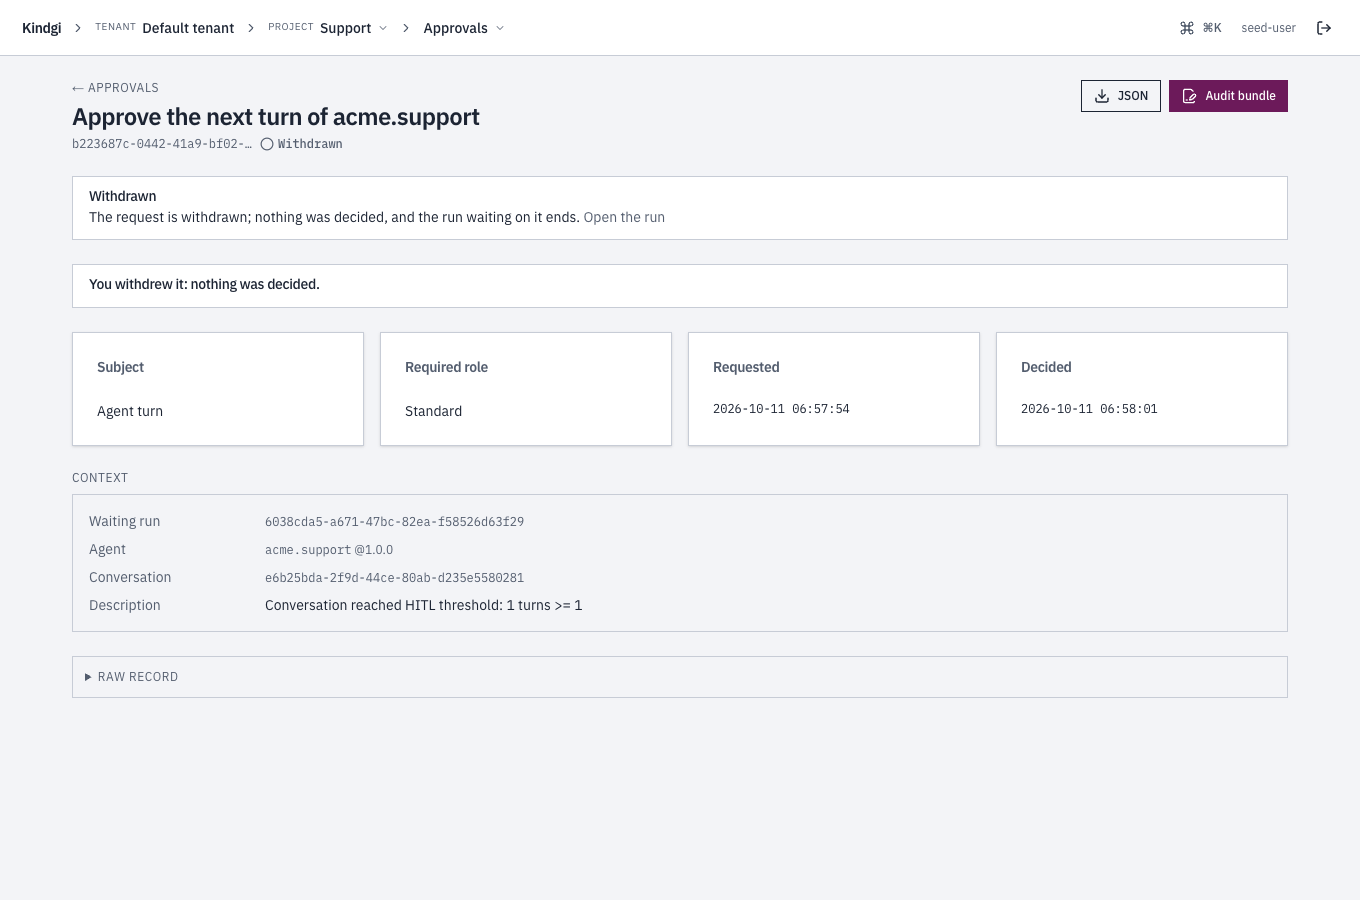
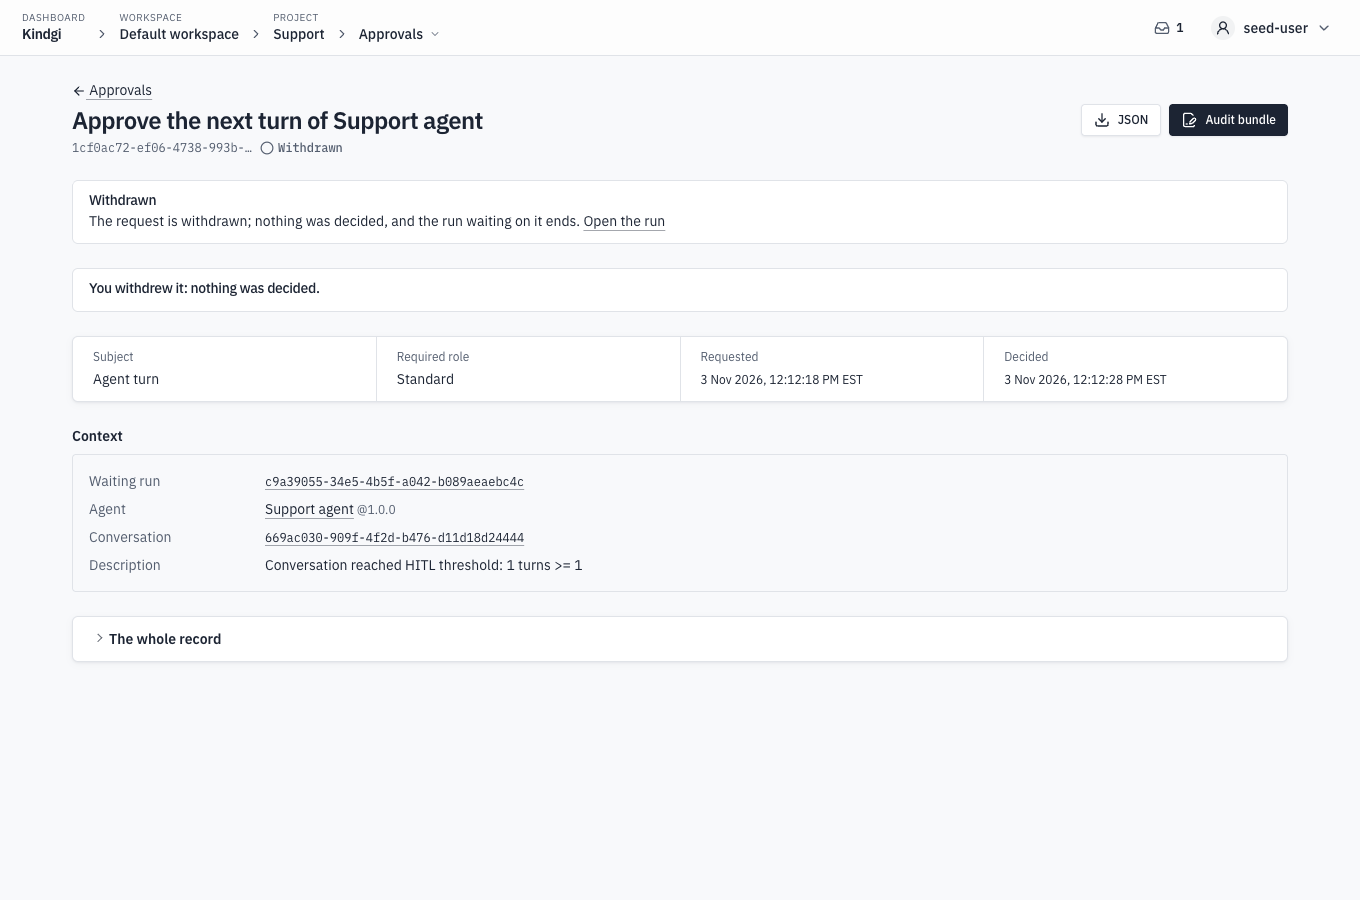
docs: the console shots say workspace
The console says "workspace" where it said "tenant". Retake the shots
of access control, people and keys, sign-in, SSO, guardrails,
corrections and approvals, and say in each alt what the new shot
shows. people/tenant-home.png is now people/workspace-home.png.

Run with authorization stops quoting the count lines the console no
longer shows, and Organize work by org and project describes renaming
the project.

diff --git a/site/src/content/docs/deploy/people-and-keys.md b/site/src/content/docs/deploy/people-and-keys.md
@@ -730,11 +730,11 @@ It's refused for yourself and for the seed user, with
   `signing-keys:write`. A key that trusts signing keys is an **Admin** key,
   under **How far it goes**, with **Trust signing keys** ticked.
 
-  ![The API keys page: one key, labelled laptop, acting as Sam Rivera with the member role, never used, expiring a month after it was made, with a Revoke button.](../../../assets/people/api-keys.png)
+  ![The API keys page: "Keys for apps and pipelines belong to a service account; a person's key goes to them. To add someone, see People."; then one key, labelled laptop, acting as Sam Rivera with the member role on every project it can reach, never used, expiring a month after it was made, with a Revoke icon.](../../../assets/people/api-keys.png)
 - **Service accounts,** for tenant admins: create one with its grants,
   change them, make it a key, or unregister it.
 
-  ![The Service accounts page: acme-ci, "Deploys from CI", admin on the default project, with no active keys yet.](../../../assets/people/service-accounts.png)
+  ![The Service accounts page: acme-ci, "Deploys from CI", admin on First Project, with no active keys yet.](../../../assets/people/service-accounts.png)
 
 A project you have no role on shows **No access**, with the projects you can
 open.
@@ -752,16 +752,16 @@ order the list, and the page's address keeps them.
 Someone [invited](#their-invitation) who hasn't signed in yet is marked
 **(invited)**, and **(invitation expired)** once its 7 days pass:
 
-![The People page with five people: Lee Park (invitation expired), added 9 days ago; the seed user (you), admin reviewer; and Ann Lee, Bo Chen and Kim Ito, each (invited), with no role yet, added just now.](../../../assets/people/people-invites.png)
+![The People page with five people: Lee Park (invitation expired), added 9 days ago; the seed user (you), tenant admin and admin reviewer; and Ann Lee, Bo Chen and Kim Ito, each (invited), reading the workspace's settings, added just now.](../../../assets/people/people-invites.png)
 
-![The People page: "8 people in this tenant", a People who were removed checkbox, Columns and Add a person; each person with their email, their access in words (the seed user: tenant admin, owner on Support and Billing, admin of team Support crew, admin reviewer; Ada Lovelace: reads the tenant's settings, viewer on Support, member of team Support crew, standard reviewer; Sam Rivera: reads the tenant's settings), their active keys, when they were last active and when they were added.](../../../assets/people/people.png)
+![The People page: a People who were removed checkbox, Search, Columns and Add a person; each person with their email, their access in words (the seed user: tenant admin, owner on Support, owner on Billing, admin of team Support crew, admin reviewer; Ada Lovelace: reads the workspace's settings, viewer on Support, member of team Support crew, standard reviewer; Sam Rivera: reads the workspace's settings), their active keys, when they were last active and when they were added.](../../../assets/people/people.png)
 
 **Add a person** adds someone with their access in one step: "Give them
 their access now, in the same step." It takes a name, an optional email
 ("One person per email in this workspace."), project roles, teams, a reviewer
 tier, and tenant admin.
 
-![The Add a person dialog: a name and an email, a viewer role on Billing, the team Support crew as a member, no reviewer role, and the Tenant admin checkbox, with an Add button.](../../../assets/people/add-person.png)
+![The Add a person dialog: a name and an email ("One person per email in this workspace."), a viewer role on Billing, the team Support crew as a member, no reviewer role, and the checkbox "Tenant admin: they administer the whole workspace", with an Add button.](../../../assets/people/add-person.png)
 
 Each part is a step of its own. When they all work, the person's page
 opens. When one doesn't, the dialog says how each went:
@@ -809,9 +809,9 @@ from the workspace** reads **Revoke the invitation**: "They haven't signed in: r
 removes them from the workspace, so the invitation no longer lets them in.
 Adding their email again invites them anew."
 
-![Ann Lee's page before they signed in: no keys and nothing they may do yet; Invitation: "They haven't signed in yet. Their invitation is open until 24 Oct 2026, 11:06 AM EDT; emailed 17 Oct 2026, 11:06 AM EDT.", with Send it again; then Revoke the invitation, with its button.](../../../assets/people/person-invitation.png)
+![Ann Lee's page before they signed in: no keys; What they may do: "They read the workspace's settings, nothing more"; no second factor; Invitation: "They haven't signed in yet. Their invitation is open until 10 Nov 2026, 12:01 PM EST; emailed 3 Nov 2026, 12:01 PM EST.", with Send it again; then Revoke the invitation, with its button.](../../../assets/people/person-invitation.png)
 
-![Ada Lovelace's page as a tenant admin: "1 active key acts as Ada Lovelace" with Make a key for Ada Lovelace; What they may do: Support (viewer) and Support crew (member), each with Take away; Reviewer: Standard, with Take off the roster; Tenant admin: No, with Make tenant admin; Give access (a project, a role); then Signed in, Their keys (ada-laptop, expiring in 3 days, with Revoke), Sign-ins, and Remove from the tenant.](../../../assets/people/person.png)
+![Ada Lovelace's page as a tenant admin: "1 active key acts as Ada Lovelace" with Make a key for Ada Lovelace; What they may do: Support (viewer) and Support crew (member), each with Take away; Reviewer: Standard, with Take off the roster; Tenant admin: No, with Make tenant admin; Give access (a project, a role); then Signed in, Their keys (ada-laptop, expiring in 3 days, with a Revoke icon), Sign-ins, and Remove from the workspace.](../../../assets/people/person.png)
 
 ### What needs you
 
@@ -828,7 +828,7 @@ A tenant admin's home in the workspace starts with what needs a look, such as
   recorded as denied, with **All refused requests**. "Someone refused may be
   missing access they need."
 
-![The tenant's home as a tenant admin. What needs you: "8 people in 3 projects and 1 team. 3 people have no project of their own; 1 key expires this week."; No project of their own: Ben Okafor, Sam Rivera and Eddie Park; Keys: "ada-laptop expires in 3 d"; Recently refused: a person refused admin on the tenant, just now. Below: the projects, and the tenant's sections.](../../../assets/people/tenant-home.png)
+![The workspace's home as a tenant admin. What needs you: "8 people in 3 projects and 1 team. 3 people have no project of their own; 1 key expires this week."; No project of their own: Ben Okafor, Sam Rivera and Eddie Park; Keys: "ada-laptop expires in 3d"; Recently refused: "Ada Lovelace: admin on the workspace", just now. Below: the projects, and Workspace administration, the sections that cover every project.](../../../assets/people/workspace-home.png)
 
 It counts everyone, and never says all is clear before it has read
 everything. While a read is still coming in, it says so, such as "Still

diff --git a/site/src/content/docs/deploy/authorization.md b/site/src/content/docs/deploy/authorization.md
@@ -288,7 +288,7 @@ checks every call.
   - the Inbox and Approvals, to reviewers;
   - Teams, to tenant admins and anyone in a team.
 
-![A project's Agents page as Gus Moreno, a viewer of Support: under the header, "You can view this project; changes need an editor."; the agents list (Support agent, acme.support, version 1.0.0) with no buttons.](../../../assets/access/viewer-project.png)
+![A project's Agents page as Gus Moreno, a viewer of Support: under the header, "You can view this project; changes need an editor."; the agents list (Support agent, version 1.0.0) with no buttons.](../../../assets/access/viewer-project.png)
 
 **My access**, in the workspace's sections, is what you may do and how you
 have it. It starts with a sentence, such as "You're an editor in 1
@@ -299,7 +299,7 @@ lets you do and doesn't. You can have a role directly, through a team, as an
 admin of the org, or as a tenant admin. **The detail** holds your ids and
 what each role allows on each kind of object.
 
-![My access as Eda Brooks: "You're an editor in 1 project." and "Tenant: member. Its people, keys and settings are its admins'."; a table with Support, Editor, directly, and what it lets her do: "run agents and flows, work on agent versions, publish prompts and settings, correct runs, sort corrections, add and retire test cases; not pin versions, register agents and tools, rescore test runs, set corrector groups, remove others' corrections"; and The detail, closed.](../../../assets/access/my-access.png)
+![My access as Eda Brooks: "You're an editor in 1 project." and "Workspace: member. Its people, keys and settings are its admins'."; a table with Support, Editor, directly, and what it lets them do: "run agents and flows, work on agent versions, publish prompts and settings, correct runs, sort corrections, add and retire test cases; not pin versions, register agents and tools, rescore test runs, set corrector groups, remove others' corrections"; and The detail, closed.](../../../assets/access/my-access.png)
 
 ## Project memberships
 
@@ -369,16 +369,15 @@ team**: "A group of people, run by its admins: they decide who is in it.
 You add the first people on its page." It takes a name, a slug ("Lowercase
 letters, digits and hyphens; unique in the workspace.") and what the team is.
 
-![The Teams page as a tenant admin: "1 team.", Support crew (support-crew, "First-line support"), a New team button, and under the list "The console doesn't give a team a role on a project yet: the API does (team grants)."](../../../assets/teams/teams.png)
+![The Teams page as a tenant admin: Search and Columns, Support crew (support-crew, "First-line support"), a New team button, and under the list "The console doesn't give a team a role on a project yet: the API does (team grants)."](../../../assets/teams/teams.png)
 
-A team's page, for its admins and tenant admins, says how many are in it
-and how many run it, such as "4 people, 2 run it.", and lists them with
-their role and since when. There they rename it, and the slug stays. They
+A team's page, for its admins and tenant admins, lists the people in it
+with their role and since when. There they rename it, and the slug stays. They
 change someone's role, take someone out, which asks first, and add someone
 from the workspace's people. Finding a person reads the workspace's people, so
 adding someone takes a tenant admin.
 
-![Support crew's page as a tenant admin: "4 people, 2 run it." and "The console doesn't give a team a role on a project yet: the API does (team grants)."; Add someone to Support crew (a person, a role, Add); and the list: the seed user and Ana Ruiz (admins), Ben Okafor and Ada Lovelace (members), each with a role to change and Take out; a Rename button.](../../../assets/teams/team.png)
+![Support crew's page as a tenant admin: "The console doesn't give a team a role on a project yet: the API does (team grants)."; Add someone to Support crew (a person, a role, Add); and the list: the seed user and Ana Ruiz (admins), Ben Okafor and Ada Lovelace (members), each with a role to change and a Take out icon; a Rename button.](../../../assets/teams/team.png)
 
 Anyone else in the team sees it, but not who else is in it: "You're in it.
 Who is in Support crew is shown to its admins."
@@ -496,15 +495,12 @@ like other lists. In the TypeScript and Python clients, it's
 ### In the console: Members
 
 A project's **Members** page shows everyone with access, and how, to the
-project's editors and admins. It starts with a count, each one counted once
-by the way their role comes from, such as "6 people and 1 service account have access
-to Support: 4 through a role of their own, 2 through a team, 1 as a tenant
-admin." Then each one, with their role and every way in: "Their own role
-(editor)", "Team Support crew (editor)", "Admin of Acme", "Tenant admin". A
-way the console can't name reads "Another way in". Emails show to the
-project's admins.
+project's editors and admins: each one, with their role and every way in:
+"Their own role (editor)", "Team Support crew (editor)", "Admin of Acme",
+"Tenant admin". A way the console can't name reads "Another way in". Emails
+show to the project's admins.
 
-![Support's Members page as a tenant admin: "6 people and 1 service account have access to Support: 4 through a role of their own, 2 through a team, 1 as a tenant admin."; an Add someone to Support form (an email, a role, Add); and the list: the seed user (owner; their own role, tenant admin, Team Support crew), Ana Ruiz (her own role editor, "admin through another way in"; tenant admin, Team Support crew), acme-ci (service account, editor), Ada Lovelace (her own role viewer, "editor through another way in"; Team Support crew (editor)), Ben Okafor (editor through Team Support crew), Eda Brooks (editor) and Gus Moreno (viewer), with Take away beside each role of someone's own.](../../../assets/access/members.png)
+![Support's Members page as a tenant admin: an Add someone to Support form (their email in this workspace, a role, Add); Search members and Columns; and the list: the seed user (owner; their own role, tenant admin, Team Support crew), Ana Ruiz (their own role editor, "admin through another way in"; tenant admin, Team Support crew), acme-ci (service account, editor), Ada Lovelace (their own role viewer, "editor through another way in"; Team Support crew (editor)), Ben Okafor (editor through Team Support crew), Eda Brooks (editor) and Gus Moreno (viewer), with a Take away icon beside each role of someone's own.](../../../assets/access/members.png)
 
 A project admin changes who works there:
 

diff --git a/site/src/content/docs/deploy/self-hosted/sign-in.md b/site/src/content/docs/deploy/self-hosted/sign-in.md
@@ -211,7 +211,7 @@ KINDGI_AUTH_TENANT_PROVIDERS=off
 - **The console's Sign-in page** says who manages it, and lists the
   providers with **Try** only:
 
-  ![The Sign-in page with KINDGI_AUTH_TENANT_PROVIDERS=off: Whoever runs Kindgi manages sign-in here, and acme-ops listed with Try only](../../../../assets/sso/console-providers-operator.png)
+  ![The Sign-in page with KINDGI_AUTH_TENANT_PROVIDERS=off: Whoever runs Kindgi manages sign-in here, acme-ops listed with a Try icon only, and the Second factor box](../../../../assets/sso/console-providers-operator.png)
 
 `on` is the default. Like the other settings here, it needs sign-in on.
 
@@ -323,7 +323,7 @@ nothing. Access is decided after the provider signs them in:
    expired before they first signed in. That refusal is audited, and stands
    until an admin of that workspace sends the invitation again:
 
-   ![The console's sign-in page: Your invitation has expired. An invitation is open for 7 days. Ask an admin of the workspace to send it again, then sign in. Detail: invite-expired.](../../../../assets/sso/sign-in-invite-expired.png)
+   ![The console's sign-in page: Your invitation has expired. An invitation is open for 7 days. Ask a tenant admin of this workspace to send it again, then sign in. Detail: invite-expired. Below it, Your email and Continue.](../../../../assets/sso/sign-in-invite-expired.png)
 5. **The first sign-in links the provider account to the person.** A
    different account with the same email is refused afterwards, with
    `account-mismatch`. So an address that later moves to someone else can't

diff --git a/site/src/content/docs/guides/sso/index.md b/site/src/content/docs/guides/sso/index.md
@@ -242,7 +242,7 @@ A tenant admin does the same steps on the console's **Sign-in** page:
   edits it in place, and warns you before a change that signs its people
   out. **Remove** takes it out of sign-in.
 
-  ![The Sign-in page: Acme Keycloak, OpenID Connect, at acme.test, with Try, Change and Remove](../../../../assets/sso/console-providers.png)
+  ![The Sign-in page: Acme Keycloak, OpenID Connect, at acme.test, letting in people added to this workspace, with Try, Change and Remove icons; below it, the Second factor box, not required, with Require a second factor](../../../../assets/sso/console-providers.png)
 
 Whoever runs Kindgi can manage sign-in for every workspace themselves, with
 `KINDGI_AUTH_TENANT_PROVIDERS=off`
